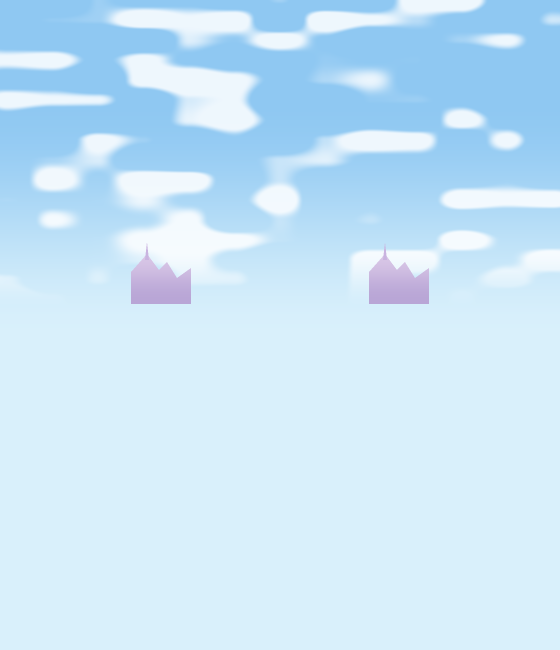
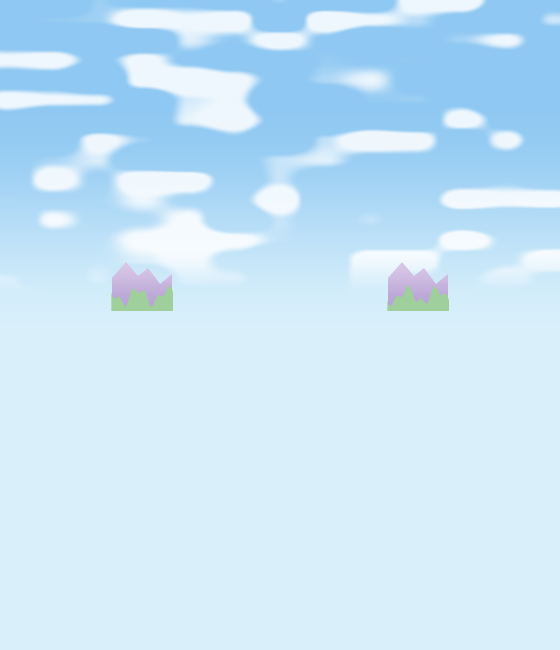
배경·무대: 높이 지도로 빛과 그림자를 계산, 실내 피팅룸과 15번가 거리로 다시 그림
- 무대: 저택 실내(벽판·몰딩·벽등·창·액자·단상·아래층), 커튼·아치·돌기둥 제거
- 앱 배경: 빌딩 스카이라인 대신 길가의 가게들(그림 + 높이), 밤에는 창과 등이 켜짐

Changed region(s): [[0.1821, 0.3692, 0.3643, 0.4923], [0.6375, 0.3692, 0.8196, 0.4923]]

diff --git a/src/components/shop/scene/sceneShader.ts b/src/components/shop/scene/sceneShader.ts
@@ -1,9 +1,11 @@
-// 배경 장면 셰이더(WebGL1). 텍스처 없이 수식(거리 함수)만으로 그린다 — 받아 올 그림이 없어 가볍다.
-//  · sky  : 앱 배경. 메이플 15번가 — 하늘 · 뭉게구름 · 도시 스카이라인 · 열기구 · 해와 달 · 별자리.
-//  · room : 미리보기 무대. 수식이 아니라 실제 맵 그림을 깐다(ROOM_MAIN 머리말).
-// 그림체는 메이플 배경의 방식이다:
+// 배경 장면 셰이더(WebGL1).
+//  · sky  : 앱 배경. 메이플 15번가 — 하늘 · 뭉게구름 · 열기구 · 해와 달 · 별자리는 수식으로, 거리(먼 건물 · 길가의 가게)는 그림으로.
+//  · room : 미리보기 무대(피팅룸). 그림 + 높이 지도(ROOM_MAIN 머리말).
+// 거리와 무대의 그림은 parser/scripts/stage-build.cjs 가 찍는다(게임 원화는 쓰지 않는다). 그림마다 높이 지도가 딸려 있어,
+// 셰이더가 해의 방향으로 빛 · 그림자를 계산한다 → 평면 그림이 아니라 튀어나온 덩어리로 보인다. 밤에는 창과 등이 켜진다.
+// 수식으로 그리는 하늘의 것들은 메이플 배경의 방식을 따른다:
 //  · **게임 픽셀 격자에 찍은 도트 그림**이다. 좌표를 격자에 맞춰(snap) 계산하므로 한 칸 안은 한 색이고, 가장자리는
-//    한 칸만 중간색으로 깎으며(손으로 넣는 안티에일리어싱), 명암은 몇 단으로 끊는다(band). 멀리서 보면 선으로 읽힌다.
+//    한 칸만 중간색으로 깎는다(손으로 넣는 안티에일리어싱).
 //  · **원근**: 멀리 있는 것은 가장자리를 넓게 풀고(gPx 를 키운다) 하늘빛에 묻어 뿌옇다. 가까운 것은 진한 외곽선으로 또렷하다.
 //  · **움직이는 것**(구름·열기구)은 그 물체 자신의 격자에 맞춘다 → 무늬는 물체에 붙어 흔들리지 않고, 물체는 화면 픽셀
 //    단위로 매끄럽게 미끄러진다(도트 스프라이트를 translate 로 옮기는 것과 같다). 그래서 캔버스는 화면 해상도로 그린다.
@@ -30,6 +32,10 @@ uniform vec3 uSun;   // xy = 하늘 안 위치(0~1), z = 보이는 정도
 uniform vec3 uMoon;
 uniform float uNight;
 uniform float uLamp;
+uniform sampler2D uTex;   // 거리: 먼 건물
+uniform sampler2D uTexB;  // 거리: 길가의 가게
+uniform sampler2D uTexH;  // 가게의 높이(빨강) · 불빛(초록)
+uniform vec2 uTexSize;
 
 float gPx;
 
@@ -170,36 +176,34 @@ void cloudLayer(inout vec3 col, vec2 p, float y, float s, float speed, float see
   col = mix(col, mix(c, col, fade), cov(d));
 }
 
-// 15번가 건물 한 줄. q.y 는 땅에서 위로 잰 높이. haze 가 클수록 멀리 있어 하늘빛에 묻힌다(외곽선도 옅다).
-void cityLayer(inout vec3 col, vec2 p, float ground, float cell, float hmin, float hmax, float seed, float haze, float tall){
-  float id = floor(p.x / cell);
-  float h1 = hash(vec2(id, seed)), h2 = hash(vec2(id, seed + 1.)), h3 = hash(vec2(id, seed + 2.));
-  float bh = mix(hmin, hmax, h1 * h1);
-  if (h3 > .86) bh = max(bh, tall * (.9 + .1 * h2));   // 눈에 띄게 높은 탑
-  vec2 q = vec2(p.x - (id + .5) * cell, ground - p.y);
-  if (q.y < 0. || q.y > bh + cell * 1.3) return;
-  float bw = cell * (.36 + .12 * h2);
-  float body = max(abs(q.x) - bw, q.y - bh);
-  float top = floor(h3 * 4.99);
-  float cap = 99.;
-  if (top == 1. || top == 4.) cap = max((abs(q.x) * (cell * 1.1 / (bw * .7)) + q.y - bh - cell * 1.1) / 2.4, bh - q.y);   // 뾰족 지붕
-  else if (top == 2.) cap = length(vec2(q.x, q.y - bh)) - bw * .72;                                                    // 돔
-  else if (top == 3.) cap = max(abs(q.x) - bw * .58, q.y - bh - cell * .3);                                             // 한 단 더
-  vec3 base = col;
-  vec3 c = h2 < .2 ? vec3(.97, .6, .72) : (h2 < .4 ? vec3(.99, .9, .74) : (h2 < .6 ? vec3(.5, .78, .8) : (h2 < .8 ? vec3(.86, .46, .42) : vec3(.62, .64, .78))));
-  vec3 roof = h1 < .5 ? vec3(.36, .5, .78) : vec3(.5, .34, .62);
-  vec3 line = c * .5;
-  ink(col, cap, (top == 3. ? c * .93 : roof) * uAmb, line * uAmb, .6 * (1. - haze));
-  vec3 bc = c * (1. - .13 * smoothstep(-.5, .5, q.x - bw * .35));
-  bc = mix(bc, c * 1.08, cov(abs(q.y - bh + 2.) - 1.2));               // 처마 띠
-  ink(col, body, bc * uAmb, line * uAmb, .6 * (1. - haze));
-  // 창: 켜진 창은 스스로 빛난다
-  vec2 wc = vec2(floor((q.x + bw) / 6.), floor(q.y / 8.));
-  vec2 g = vec2(mod(q.x + bw, 6.) - 3., mod(q.y, 8.) - 4.);
-  float win = cov(sdBox(g, vec2(1.5, 2.3))) * cov(body + 2.5) * step(5., q.y);
-  float on = step(.45, hash(wc + id * 7. + seed)) * uLamp;
-  col = mix(col, mix(mix(vec3(.6, .82, .98), vec3(.26, .32, .56), uNight) * uAmb, vec3(1., .86, .46), on), win);
-  col = mix(col, base, haze);
+// 15번가 거리. 그림은 가로로 이어 붙고, 땅은 화면 아래 끝에 닿는다.
+vec4 tileAt(sampler2D s, vec2 q){ return texture2D(s, vec2(mod(q.x, uTexSize.x), clamp(q.y, .5, uTexSize.y - .5)) / uTexSize); }
+float cityH(vec2 q){ return tileAt(uTexH, q).r * 44. - 12.; }
+vec2 cityQ(vec2 p, vec2 size){ return vec2(p.x + 96., uTexSize.y - (size.y - p.y)); }
+void cityFar(inout vec3 col, vec2 p, vec2 size){
+  vec2 q = cityQ(p, size);
+  if (q.y < 0.) return;
+  vec4 f = tileAt(uTex, q);
+  col = mix(col, mix(f.rgb * uAmb, col, .52), f.a);            // 먼 건물은 하늘빛에 반쯤 묻힌다
+}
+void cityNear(inout vec3 col, vec2 p, vec2 size){
+  vec2 q = cityQ(p, size);
+  if (q.y < 0.) return;
+  vec4 m = tileAt(uTexB, q);
+  if (m.a < .01) return;
+  vec4 hh = tileAt(uTexH, q);
+  float h0 = hh.r * 44. - 12.;
+  vec3 n = normalize(vec3(cityH(q - vec2(1., 0.)) - cityH(q + vec2(1., 0.)), cityH(q - vec2(0., 1.)) - cityH(q + vec2(0., 1.)), 2.4));
+  vec3 Ld = normalize(vec3(mix(-.45, (uSun.x - .5) * 1.5, uSun.z), -.6, .62)); // 해가 있는 쪽에서 빛이 든다
+  float diff = max(dot(n, Ld), 0.);
+  vec2 dir = normalize(Ld.xy);
+  float rise = Ld.z / length(Ld.xy), sh = 0.;
+  for (int i = 1; i <= 7; i++) { float s = float(i) * 2.; sh = max(sh, clamp((cityH(q + dir * s) - h0 - rise * s) * .45, 0., 1.) * (1. - float(i) / 10.)); }
+  float ao = clamp(((cityH(q + vec2(2.5, 0.)) + cityH(q - vec2(2.5, 0.)) + cityH(q + vec2(0., 2.5)) + cityH(q - vec2(0., 2.5))) * .25 - h0) * .1, 0., .34);
+  vec3 c = m.rgb * (.64 + .56 * diff) * (1. - .42 * sh) * (1. - ao) * uAmb;
+  float on = mix(.5 + .5 * smoothstep(.3, .6, vnoise(q / 34.)), 1., step(.97, hh.g));   // 창은 집마다 밝기가 다르고, 등은 모두 켜진다
+  c = mix(c, vec3(1., .88, .5), hh.g * uLamp * on * .92);
+  col = mix(col, c, m.a);
 }
 
 // 열기구
@@ -254,18 +258,21 @@ const SKY_PARTS = {
   SKY_MID: `
     cloudLayer(col, pr, 27., .5, 2., 33., .08);
     gPx = 2.4;
-    cityLayer(col, p, size.y, 26., size.y * .4, size.y * .72, 4., .66, size.y * .93);
+    cityFar(col, p, size);
     gPx = 1.6;
     balloon(col, snap(pr - vec2(mod(uTime * 1.6 + size.x * .2, size.x + 60.) - 30., size.y * .3 + sin(uTime * .4 + 2.) * 2.)), vec3(.4, .7, .9), vec3(1., .97, .92), .3);
     gPx = 1.;
     balloon(col, snap(pr - vec2(mod(uTime * 2.5 + size.x * .7, size.x + 60.) - 30., 13. + sin(uTime * .5) * 1.5)), vec3(.96, .42, .4), vec3(1., .9, .6), 0.);
-    cityLayer(col, p, size.y, 38., size.y * .2, size.y * .52, 11., 0., size.y * .66);`,
+    cityNear(col, p, size);`,
 }
 
-// 미리보기 무대: 피팅룸 그림 두 겹을 합친다. 그림은 parser/scripts/stage-build.cjs 가 찍는다(게임 원화는 쓰지 않는다).
+// 미리보기 무대: 피팅룸 그림을 합치고 빛을 계산한다. 그림은 parser/scripts/stage-build.cjs 가 찍는다(게임 원화는 쓰지 않는다).
 //  · far(창밖 하늘 · 먼 지붕) : 살짝 흐리고 뿌옇게 → 멀리 있는 것으로 읽힌다. 시각의 색을 그대로 탄다.
-//  · main(저택의 방: 벽 · 기둥 · 아치 벽감과 커튼 · 단상 · 바닥) : 손대지 않고 또렷하게 얹는다. 창 자리만 뚫려 있다.
-//  · 그 위로 창에서 비껴 드는 빛줄기와 떠다니는 빛 먼지가 천천히 움직인다(먼지는 게임 픽셀 격자에 맞춘다).
+//  · main(방 안) + height(그 높이 지도) : 픽셀마다 높이의 기울기로 면의 방향을 구해 빛을 계산한다.
+//      - 창 쪽에서 드는 빛(해의 위치에 따라 좌우로 움직인다) → 몰딩 · 액자 · 단상의 모서리가 둥글게 빛을 받는다
+//      - 빛 쪽으로 높이를 더듬어 그림자를 드리운다(튀어나온 것이 벽에 그림자를 떨군다)
+//      - 둘레가 더 높으면 어둡게(구석의 그늘), 벽등 네 개는 따뜻한 점빛
+//  · 그 위로 창에서 비껴 드는 빛줄기와 떠다니는 빛 먼지(게임 픽셀 격자에 맞춘다), 고운 픽셀 결.
 const ROOM_MAIN = `
 #ifdef GL_FRAGMENT_PRECISION_HIGH
 precision highp float;
@@ -278,17 +285,25 @@ uniform float uTime;
 uniform vec2 uOrigin;
 uniform float uShadow;
 uniform vec3 uAmb;
+uniform vec3 uSun;
 uniform float uLamp;
 uniform float uNight;
 uniform sampler2D uTex;   // far
 uniform sampler2D uTexB;  // main
+uniform sampler2D uTexH;  // main 의 높이
 uniform vec2 uTexSize;
 uniform vec2 uFoot;       // 그림 안에서 캐릭터가 서는 자리(발)
 float hash(vec2 p){ return fract(sin(dot(p, vec2(127.1, 311.7))) * 43758.5453); }
 vec3 farAt(vec2 q){ return texture2D(uTex, clamp(q, vec2(.5), uTexSize - .5) / uTexSize).rgb; }
+float hAt(vec2 q){ return texture2D(uTexH, clamp(q, vec2(.5), uTexSize - .5) / uTexSize).r * 44. - 12.; }
 float beam(vec2 w, float side){
-  float d = side * w.x + 119. - (160. + w.y) * .5;                // 창(발 기준 x=±119, 높이 104~211)에서 안쪽 아래로 비껴 내린다
-  return smoothstep(17., 5., abs(d)) * smoothstep(-212., -150., w.y) * smoothstep(18., -30., w.y) * (.8 + .2 * sin(uTime * .35 + d * .1 + side));
+  float d = side * w.x + 138. - (150. + w.y) * .5;                // 창(발 기준 x=±138)에서 안쪽 아래로 비껴 내린다
+  return smoothstep(22., 6., abs(d)) * smoothstep(-200., -140., w.y) * smoothstep(16., -30., w.y) * (.8 + .2 * sin(uTime * .35 + d * .1 + side));
+}
+vec3 lampAt(vec2 w, float h0, vec3 n, vec2 at){                   // 벽등 하나의 따뜻한 점빛
+  vec3 dl = vec3(at - w, 16. - h0);
+  float dd = length(dl);
+  return vec3(1., .8, .52) * max(dot(n, dl / dd), 0.) * exp(-dd / 46.);
 }
 void main(){
   vec2 w = floor((vec2(gl_FragCoord.x, uRes.y - gl_FragCoord.y) - uOrigin) * uPx) + .5;
@@ -297,12 +312,29 @@ void main(){
   col *= mix(vec3(1.), uAmb * uAmb, .95) * (1. - .45 * uNight);    // 바깥은 시각을 그대로 탄다(밤에는 어둡다)
   col = mix(col, uAmb * vec3(.97, .94, 1.), .12);                  // 뿌연 공기
   vec4 m = texture2D(uTexB, clamp(t, vec2(.5), uTexSize - .5) / uTexSize);
+  // 면의 방향과 빛
+  float h0 = hAt(t);
+  vec3 n = normalize(vec3(hAt(t - vec2(1., 0.)) - hAt(t + vec2(1., 0.)), hAt(t - vec2(0., 1.)) - hAt(t + vec2(0., 1.)), 2.4));
+  vec3 Ld = normalize(vec3(mix(-.5, (uSun.x - .5) * 1.3, uSun.z), -.62, .62));
+  float diff = max(dot(n, Ld), 0.);
+  vec2 dir = normalize(Ld.xy);
+  float rise = Ld.z / length(Ld.xy), sh = 0.;
+  for (int i = 1; i <= 10; i++) {                                  // 빛 쪽으로 더듬어 가며 가려지는지 본다
+    float s = float(i) * 2.;
+    sh = max(sh, clamp((hAt(t + dir * s) - h0 - rise * s) * .45, 0., 1.) * (1. - float(i) / 14.));
+  }
+  float ao = clamp(((hAt(t + vec2(2.5, 0.)) + hAt(t - vec2(2.5, 0.)) + hAt(t + vec2(0., 2.5)) + hAt(t - vec2(0., 2.5))) * .25 - h0) * .1, 0., .34);
+  float day = 1. - .35 * uNight;                                   // 밤에는 창빛이 약하고 벽등이 방을 밝힌다
+  float key = (.64 + .56 * diff * day) * (1. - .42 * sh * day) * (1. - ao);
+  vec3 warm = lampAt(w, h0, n, vec2(-104., -128.)) + lampAt(w, h0, n, vec2(104., -128.)) + lampAt(w, h0, n, vec2(-70., 111.)) + lampAt(w, h0, n, vec2(70., 111.));
+  float spec = pow(max(dot(n, normalize(Ld + vec3(0., 0., 1.))), 0.), 28.) * .14 * day;
   m.rgb *= 1. + .036 * (hash(floor(t)) - .5) + .008 * (mod(floor(t.x) + floor(t.y), 2.) - .5); // 고운 픽셀 결(메이플 그림의 질감)
+  m.rgb = m.rgb * key + m.rgb * warm * (.35 + .5 * uLamp) + spec;
   m.rgb *= mix(uAmb, vec3(1.02, .98, .92), .55 + .3 * uLamp);      // 방 안은 실내 조명을 받아 덜 물든다
   m.rgb = mix(m.rgb, vec3(.2, .13, .12), .32 * (1. - smoothstep(.55, 1., length(vec2(w.x / uShadow, (w.y - .4) / 1.9))))); // 발밑 그림자
   col = mix(col, m.rgb, m.a);
   float b = (beam(w, 1.) + beam(w, -1.)) * m.a;
-  col += mix(vec3(1., .95, .8), vec3(.55, .65, 1.), uNight) * b * mix(.16, .07, uNight);
+  col += mix(vec3(1., .95, .8), vec3(.55, .65, 1.), uNight) * b * mix(.14, .06, uNight);
   vec2 g = floor(w / 26.);                                         // 빛 먼지: 칸마다 하나, 천천히 떠오른다
   vec2 o = vec2(hash(g), hash(g + 7.3));
   vec2 p = (g + .2 + .6 * o) * 26. + vec2(sin(uTime * .3 + o.x * 6.3) * 5., 13. - mod(uTime * (1.5 + 2.5 * o.y) + o.x * 26., 26.));

diff --git a/src/components/shop/scene/sceneGl.ts b/src/components/shop/scene/sceneGl.ts
@@ -1,11 +1,15 @@
 // 배경 장면을 그리는 WebGL 실행기. 화면 조작(INP)에 끼어들지 않는 것이 첫째 조건이다.
 //  · 초당 30번 그린다. 구름·열기구가 화면 픽셀 단위로 매끄럽게 흘러가려면 필요하고, 메인 스레드가 하는 일은 유니폼 몇 개를 넘기는 것뿐이다.
-//  · 앱 배경은 캔버스 픽셀 수를 묶는다(layout: 약 240만 이하). 무대는 그림 두 겹을 합치는 일뿐이라 게임 픽셀 한 칸 = 1픽셀로 그리고 초당 12번쯤만 갱신한다(빛줄기·먼지가 천천히 움직인다).
+//  · 앱 배경은 캔버스 픽셀 수를 묶는다(layout: 약 240만 이하). 무대는 그림을 합치고 높이 지도로 빛을 계산하지만 게임 픽셀 한 칸 = 1픽셀(약 360×570)이라 가볍고, 초당 12번쯤만 갱신한다.
 //  · 셰이더 컴파일은 KHR_parallel_shader_compile 로 끝나기를 기다린다(없으면 다음 프레임에 확인) → 메인 스레드를 막지 않는다.
 //  · 탭이 가려지면 rAF 가 멈추니 따로 멈출 것이 없다. '동작 줄이기' 설정이면 20초에 한 번만(시각에 따른 색만) 그린다.
 //  · 캔버스와 컨텍스트는 종류마다 하나를 끝까지 재사용한다(탭을 오갈 때마다 다시 컴파일하지 않는다).
 
+import cityFar from '@/assets/city-far.png'
+import cityHeight from '@/assets/city-height.png'
+import cityNear from '@/assets/city-near.png'
 import stageFar from '@/assets/stage-far.png'
+import stageHeight from '@/assets/stage-height.png'
 import stageMain from '@/assets/stage-main.png'
 import { getStageFloor, onStageFloor } from '@/lib/stageFloor'
 import { VERT, fragSource } from './sceneShader'
@@ -13,7 +17,7 @@ import { skyHour, skyState, type SkyState } from './skyTime'
 
 export type SceneKind = 'sky' | 'room'
 
-const UNIFORMS = ['uRes', 'uPx', 'uTime', 'uSky', 'uCloudA', 'uCloudB', 'uAmb', 'uLight', 'uSunCol', 'uSun', 'uMoon', 'uNight', 'uLamp', 'uOrigin', 'uShadow', 'uTex', 'uTexB', 'uTexSize', 'uFoot'] as const
+const UNIFORMS = ['uRes', 'uPx', 'uTime', 'uSky', 'uCloudA', 'uCloudB', 'uAmb', 'uLight', 'uSunCol', 'uSun', 'uMoon', 'uNight', 'uLamp', 'uOrigin', 'uShadow', 'uTex', 'uTexB', 'uTexH', 'uTexSize', 'uFoot'] as const
 const FRAME_MS = 33
 const ROOM_MS = 80 // 무대의 움직임(빛줄기·먼지)은 느려서 이 간격이면 충분하다
 // 무대 그림 안에서 캐릭터가 서는 자리(발). parser/scripts/stage-build.cjs 의 FX · FY 와 같은 값이다.
@@ -33,7 +37,7 @@ interface Scene {
   ox: number; oy: number; px: number; shadow: number
   dirty: boolean
   shown: boolean
-  imgs: HTMLImageElement[]     // 무대 그림: [far, main]
+  imgs: HTMLImageElement[]     // 그림 셋: [먼 것, 가까운 것, 가까운 것의 높이]
   tex: boolean                 // 텍스처로 올렸는가
   at: number                   // 마지막으로 그린 때
   failed: boolean
@@ -62,17 +66,17 @@ function build(sc: Scene) {
   gl.vertexAttribPointer(0, 2, gl.FLOAT, false, 0, 0)
 }
 
-// 무대 그림 두 겹을 텍스처로 올린다. far 는 흐리게 쓸 것이라 linear, main 은 도트를 뭉개지 않게 nearest.
+// 그림 셋을 텍스처로 올린다. 먼 것과 높이는 부드럽게 읽으려고 linear, 가까운 것은 도트를 뭉개지 않게 nearest.
 // 컨텍스트를 되찾았을 때도 다시 부른다.
 function upload(sc: Scene) {
   const gl = sc.gl
-  if (!gl || sc.imgs.length < 2 || sc.imgs.some((i) => !i.complete || !i.naturalWidth)) return
+  if (!gl || sc.imgs.length < 3 || sc.imgs.some((i) => !i.complete || !i.naturalWidth)) return
   sc.imgs.forEach((img, n) => {
     gl.activeTexture(gl.TEXTURE0 + n)
     gl.bindTexture(gl.TEXTURE_2D, gl.createTexture())
-    gl.texImage2D(gl.TEXTURE_2D, 0, n ? gl.RGBA : gl.RGB, n ? gl.RGBA : gl.RGB, gl.UNSIGNED_BYTE, img)
-    gl.texParameteri(gl.TEXTURE_2D, gl.TEXTURE_MIN_FILTER, n ? gl.NEAREST : gl.LINEAR)
-    gl.texParameteri(gl.TEXTURE_2D, gl.TEXTURE_MAG_FILTER, n ? gl.NEAREST : gl.LINEAR)
+    gl.texImage2D(gl.TEXTURE_2D, 0, gl.RGBA, gl.RGBA, gl.UNSIGNED_BYTE, img)
+    gl.texParameteri(gl.TEXTURE_2D, gl.TEXTURE_MIN_FILTER, n === 1 ? gl.NEAREST : gl.LINEAR)
+    gl.texParameteri(gl.TEXTURE_2D, gl.TEXTURE_MAG_FILTER, n === 1 ? gl.NEAREST : gl.LINEAR)
     gl.texParameteri(gl.TEXTURE_2D, gl.TEXTURE_WRAP_S, gl.CLAMP_TO_EDGE)
     gl.texParameteri(gl.TEXTURE_2D, gl.TEXTURE_WRAP_T, gl.CLAMP_TO_EDGE)
   })
@@ -110,15 +114,13 @@ function create(kind: SceneKind): Scene {
   canvas.addEventListener('webglcontextlost', (e) => { e.preventDefault(); sc.prog = null; sc.building = null; sc.tex = false })
   canvas.addEventListener('webglcontextrestored', () => { build(sc); upload(sc) })
   build(sc)
-  if (kind === 'room') {
-    sc.imgs = [stageFar.src, stageMain.src].map((src) => {
-      const img = new Image()
-      img.decoding = 'async'
-      img.onload = () => upload(sc)
-      img.src = src
-      return img
-    })
-  }
+  sc.imgs = (kind === 'room' ? [stageFar, stageMain, stageHeight] : [cityFar, cityNear, cityHeight]).map((s) => {
+    const img = new Image()
+    img.decoding = 'async'
+    img.onload = () => upload(sc)
+    img.src = s.src
+    return img
+  })
   return sc
 }
 
@@ -187,10 +189,8 @@ function draw(sc: Scene, now: number, st: SkyState) {
   gl.uniform3fv(u.uMoon!, moon)
   gl.uniform1f(u.uNight!, st.night)
   gl.uniform1f(u.uLamp!, st.lamp)
-  if (sc.kind === 'room') {
-    gl.uniform2f(u.uOrigin!, sc.ox, sc.oy); gl.uniform1f(u.uShadow!, sc.shadow)
-    gl.uniform1i(u.uTex!, 0); gl.uniform1i(u.uTexB!, 1); gl.uniform2f(u.uTexSize!, sc.imgs[0].naturalWidth, sc.imgs[0].naturalHeight); gl.uniform2f(u.uFoot!, STAGE_FOOT[0], STAGE_FOOT[1])
-  }
+  gl.uniform1i(u.uTex!, 0); gl.uniform1i(u.uTexB!, 1); gl.uniform1i(u.uTexH!, 2); gl.uniform2f(u.uTexSize!, sc.imgs[1].naturalWidth, sc.imgs[1].naturalHeight)
+  if (sc.kind === 'room') { gl.uniform2f(u.uOrigin!, sc.ox, sc.oy); gl.uniform1f(u.uShadow!, sc.shadow); gl.uniform2f(u.uFoot!, STAGE_FOOT[0], STAGE_FOOT[1]) }
   gl.drawArrays(gl.TRIANGLES, 0, 3)
   sc.dirty = false
   sc.at = now
@@ -204,7 +204,7 @@ function tick(now: number) {
   for (const sc of Object.values(scenes)) {
     if (!sc || !sc.host) continue
     if (sc.building) poll(sc)
-    if (!sc.prog || (sc.kind === 'room' && !sc.tex)) continue
+    if (!sc.prog || !sc.tex) continue
     if (!(sc.dirty || (sc.kind === 'room' ? now - sc.at >= (reduce?.matches ? REDUCED_MS : ROOM_MS) : due))) continue
     draw(sc, now, st ?? (st = skyState(skyHour())))
   }

diff --git a/src/components/shop/scene/skyTime.ts b/src/components/shop/scene/skyTime.ts
@@ -95,5 +95,5 @@ const mul = (a: RGB, b: RGB): RGB => [a[0] * b[0], a[1] * b[1], a[2] * b[2]]
 export function sceneFallback(kind: 'sky' | 'room'): string {
   const s = skyState(skyHour())
   if (kind === 'sky') return `linear-gradient(180deg, ${s.sky.map(css).join(', ')})`
-  return css(mul(hex('#ecc2d8'), s.amb)) // 무대 그림이 뜨기 전: 방 벽 색
+  return css(mul(hex('#eec4da'), s.amb)) // 무대 그림이 뜨기 전: 방 벽 색
 }
